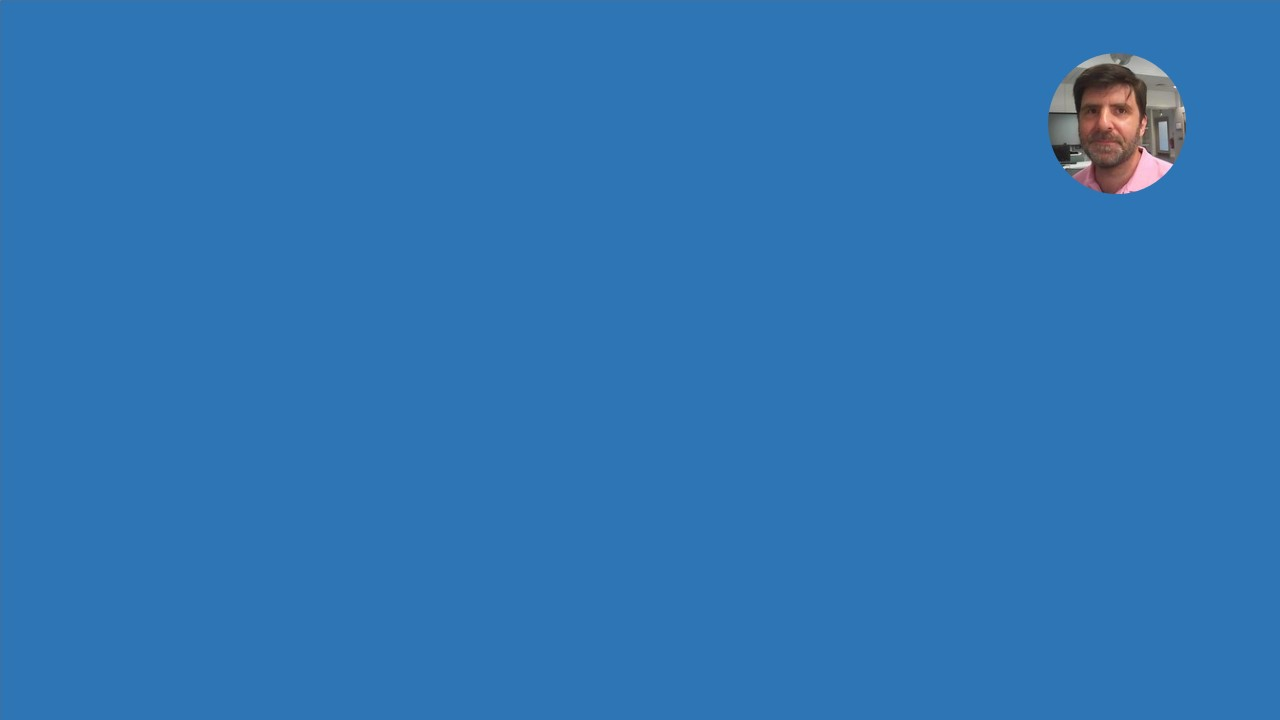
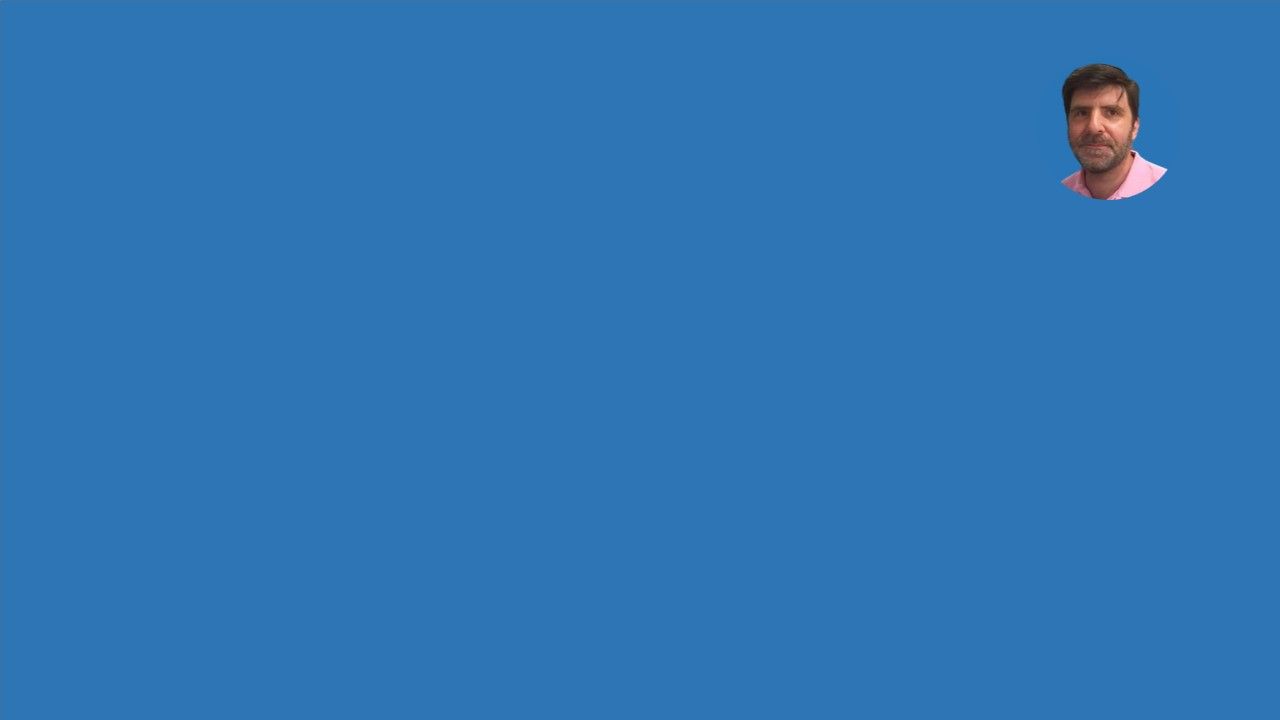
Header image adjusted.

Changed region(s): [[0.8125, 0.0611, 0.9375, 0.275]]

diff --git a/styling.css b/styling.css
@@ -295,31 +295,42 @@ and different content in each */
 /* home page only */
 .header {
     width: 100%;
-    max-height:180px;
+    height: 22dvh;
+    display: flex;
     box-shadow: 0 4px 8px 0 rgba(0, 0, 0, 0.2), 0 6px 20px 0 rgba(0, 0, 0, 0.19);
-    overflow: hidden;
+    align-items: stretch;
     background-color: rgb(46,117,182); 
+    gap: 20px;
 }
     .header img {
         content: "";
-        max-width: 100%;
-        height: auto;
-        z-index: -1;
-        transition: all 3s ease-in-out;
-        opacity: 0.0;
+        max-width: 200px;
+        transform: scale(0.7);
+        z-index: -1111;
+        transition: all 1s ease-in-out;
         box-shadow: none;
+        border-radius: 50%;
+        box-shadow: 0 0 1rem rgba(0, 0, 0, 0.2);
+    }
+    #img-pos {
+        flex-grow: 1;
+        
     }
     .header img:hover {
-        transform: scale(1.0) rotate(-2deg);
-        opacity: 1.0;
+        border-radius: 50%;
+        transform: scale(1.0) ;
+        box-shadow: none;
     }
     
-
 /* used in home header for name */    
 #header-textBox {
-    position: absolute;
-    margin-top: 50px;
-    margin-left: 20px;
+    display: flex;
+    justify-content: center;
+    align-items: center;
+    flex-direction: column;
+    flex-grow: 2;
+    z-index: 1111;
+    
 }
     #header-textBox p {
         font-weight: bolder;

diff --git a/index.html b/index.html
@@ -25,12 +25,23 @@
 
     <div class="header">
         <div id="header-textBox">
+            <div>
+            <p class="italText">Lawrence Abu-Jaber</p>
+            <p class="italText" style="Font-size:12px">Newly Graduated Software Developer</p>
+            </div>
+        </div> 
+        <div id="img-pos"><img src="pics/header-img.jpg" alt="Header image" >
+        </div>
+    </div> 
+
+    <!--HEADER original-->
+    <!--<div class="header">
+        <div id="header-textBox">
             <p class="italText">Lawrence Abu-Jaber</p>
             <p class="italText" style="Font-size:12px">Newly Graduated Software Developer</p>
         </div> 
         <img src="pics/header.jpg" alt="Header image" >
-    </div>  
-
+    </div>-->
     <!-- block out link of current page displayed -->
     <div class="nav">
         <ul>
